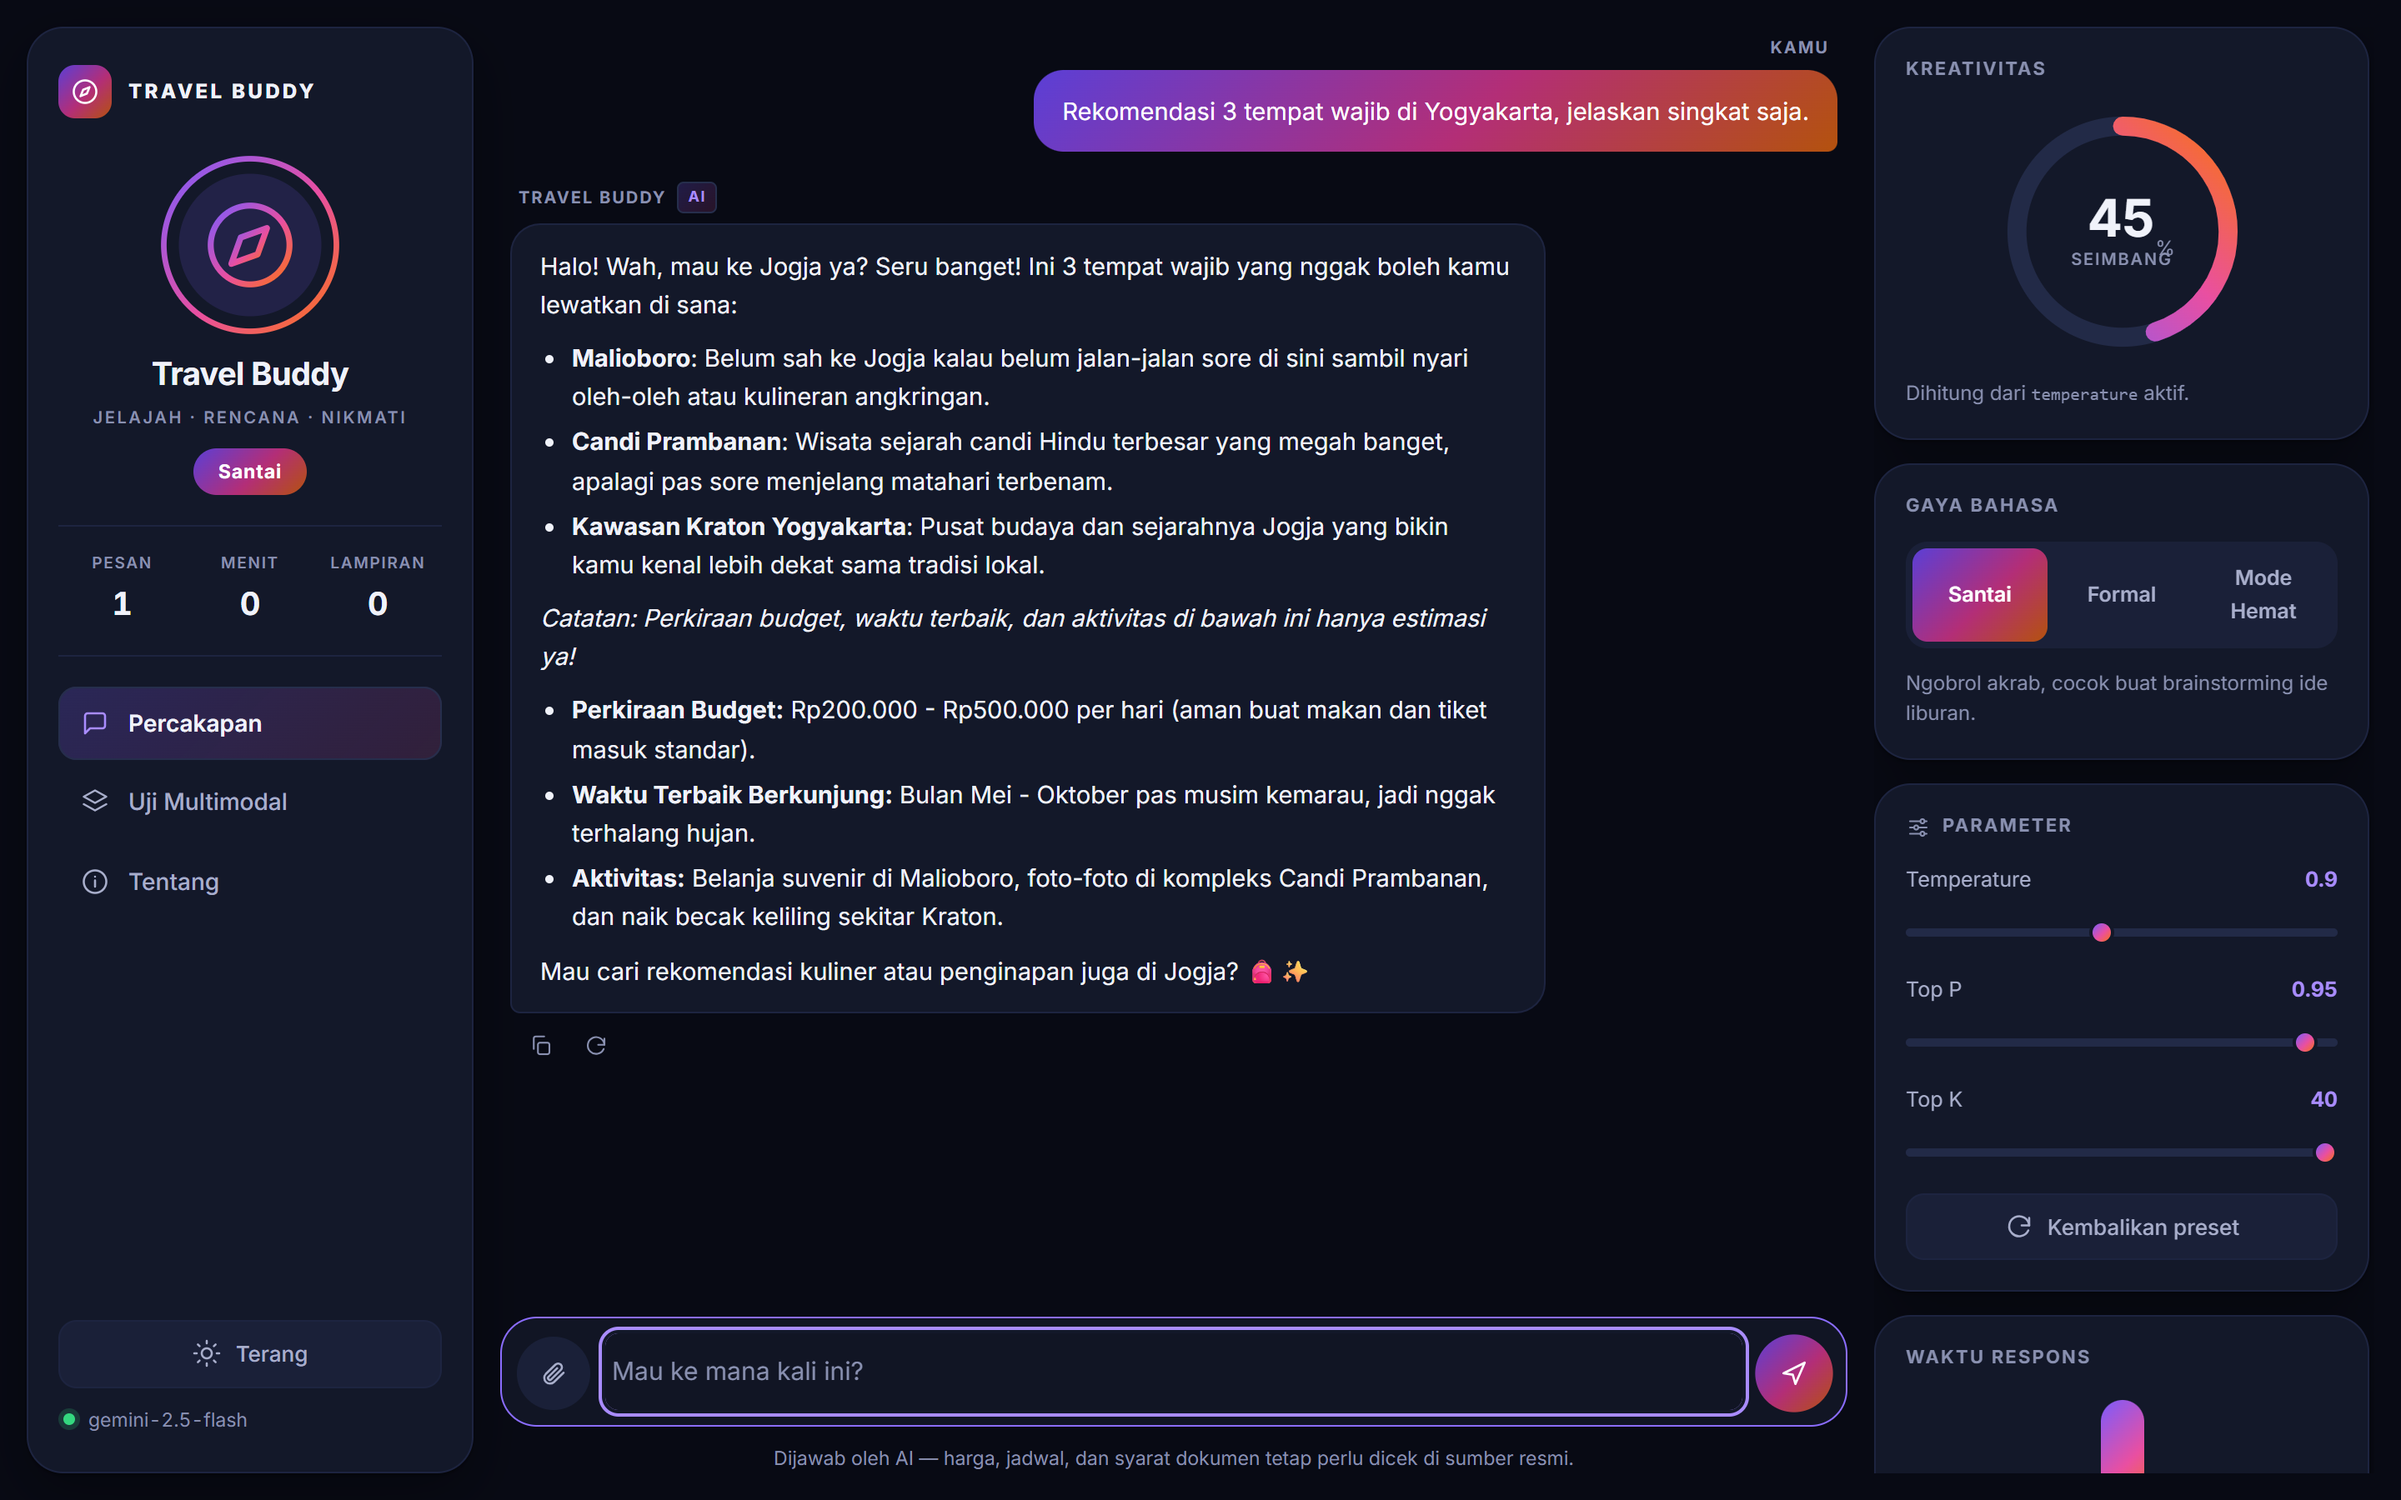
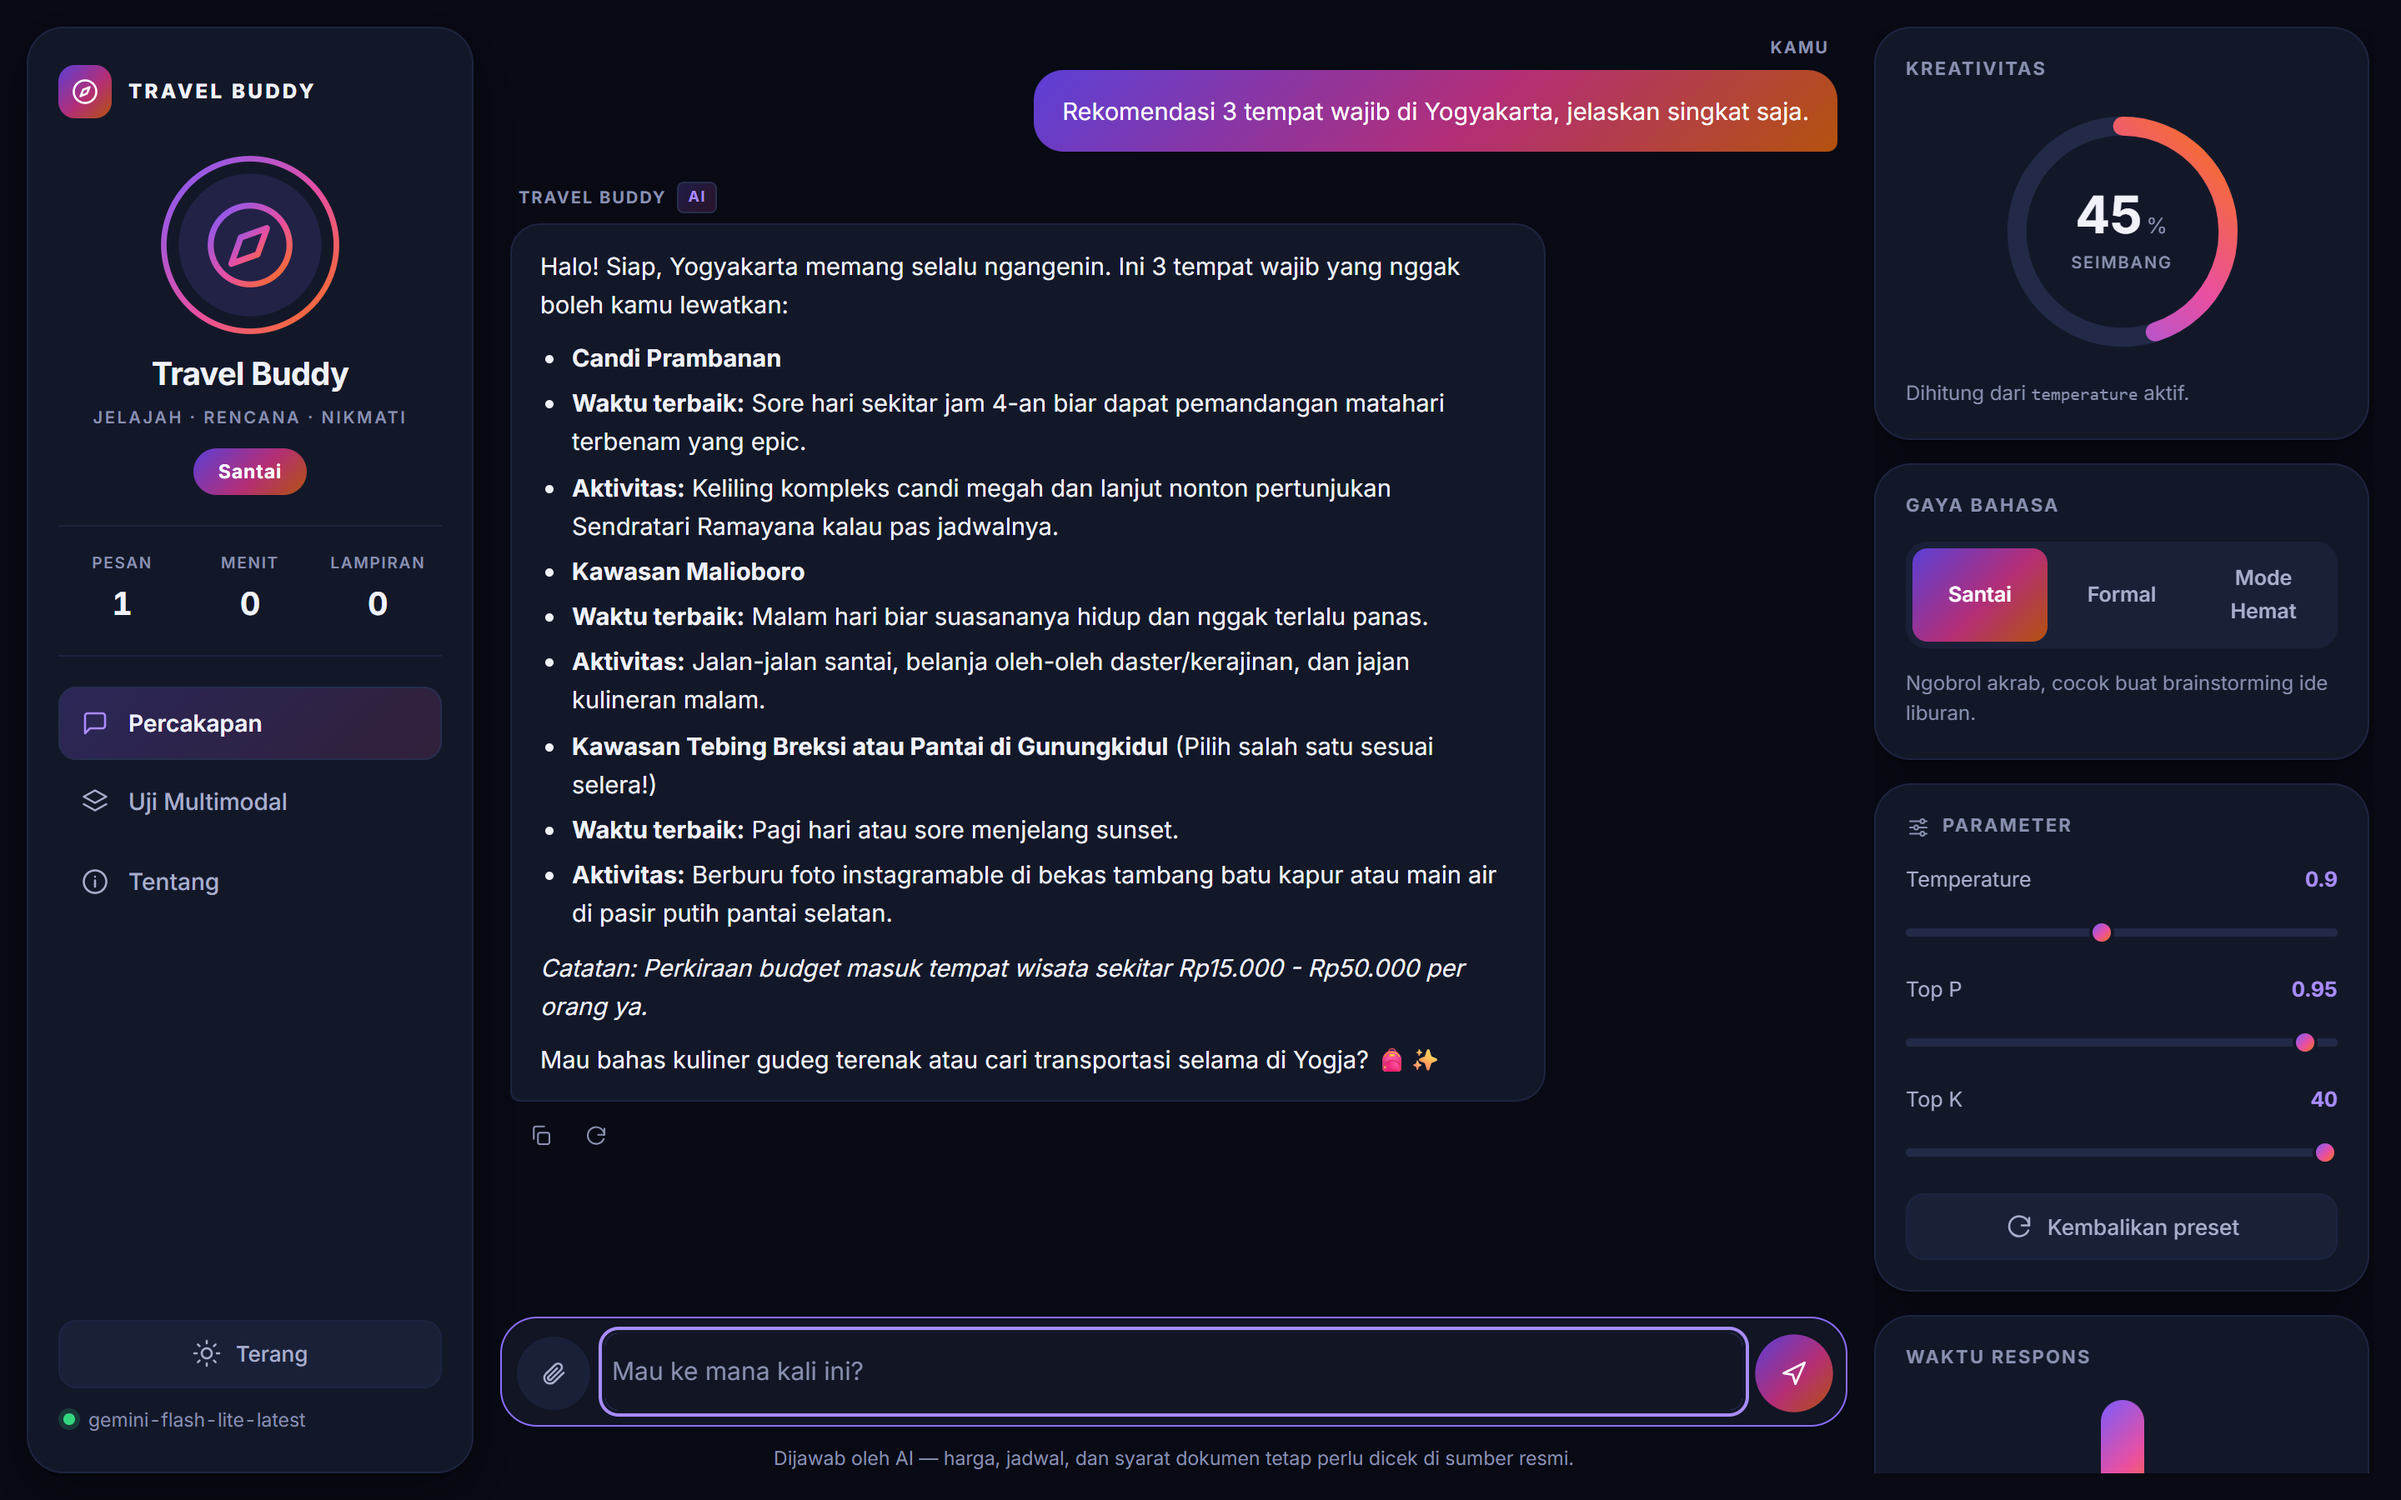
Perbaiki chip lampiran yang tetap tampil, tumpang tindih label gauge, dan tombol menu di mobile
Atribut hidden kalah dari display: inline-flex, jadi chip lampiran kosong
selalu muncul. Simbol persen di gauge diposisikan absolut dengan offset
tetap sehingga menabrak labelnya. Tombol menu mobile sekarang diburamkan
supaya teks yang lewat di belakangnya tetap terbaca.

Streaming juga mendeteksi MAX_TOKENS dan memberi tahu kalau jawaban terpotong.

Changed region(s): [[0.2188, 0.1556, 0.625, 0.7156], [0.8438, 0.1244, 0.9062, 0.1867], [0.0625, 0.9333, 0.125, 0.9644]]

diff --git a/client/style.css b/client/style.css
@@ -675,8 +675,10 @@ code { font-family: "SF Mono", ui-monospace, Menlo, Consolas, monospace; font-si
   display: grid;
   align-content: center;
   justify-items: center;
-  gap: 1px;
+  gap: 3px;
 }
+
+.gauge-num { display: flex; align-items: baseline; gap: 2px; }
 
 .gauge-center strong {
   font-size: 31px; font-weight: 700;
@@ -685,9 +687,7 @@ code { font-family: "SF Mono", ui-monospace, Menlo, Consolas, monospace; font-si
 }
 
 .gauge-center span {
-  position: absolute;
-  top: 50%; margin-left: 52px;
-  font-size: 12px;
+  font-size: 13px;
   color: var(--text-faint);
 }
 
@@ -980,16 +980,20 @@ code { font-family: "SF Mono", ui-monospace, Menlo, Consolas, monospace; font-si
 
 /* drawer (mobile) */
 
+/* Isi chat lewat di bawah tombol ini waktu di-scroll, jadi latarnya diburamkan
+   supaya teks di belakangnya tidak bertabrakan. */
 .drawer-toggle {
   display: none;
   position: fixed;
   top: 14px; left: 14px;
-  width: 42px; height: 42px;
+  width: 44px; height: 44px;
   place-items: center;
   color: var(--text);
-  background: var(--card);
+  background: color-mix(in srgb, var(--card) 84%, transparent);
   border: 1px solid var(--line);
   border-radius: 13px;
+  backdrop-filter: blur(14px);
+  box-shadow: 0 4px 18px rgba(0, 0, 0, .3);
   cursor: pointer;
   z-index: 50;
 }

diff --git a/client/index.html b/client/index.html
@@ -238,7 +238,7 @@
           <circle class="gauge-fill" id="gauge-fill" cx="60" cy="60" r="50"/>
         </svg>
         <div class="gauge-center" aria-live="polite">
-          <strong id="gauge-value">45</strong><span>%</span>
+          <p class="gauge-num"><strong id="gauge-value">45</strong><span>%</span></p>
           <em id="gauge-label">Seimbang</em>
         </div>
       </div>
